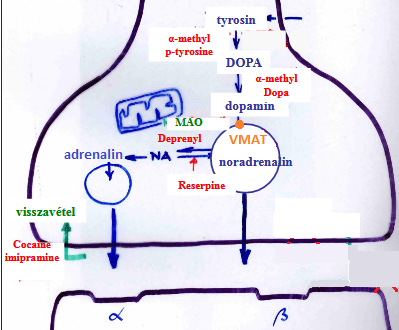
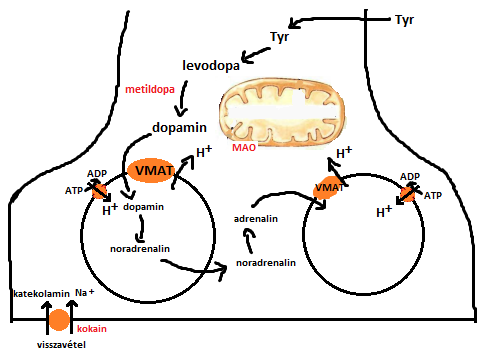
make some changes

diff --git a/BioKemia/III/biokemia_III.html b/BioKemia/III/biokemia_III.html
@@ -1000,21 +1000,19 @@
 		<li>2) aromás aminosav dekarboxiláz <font style="font-size:80%">(nem specifikus &#10140; más aromás aminosavakat is dekarboxilál)</font></li><ul>
 			<li>	Parkinson-kór esetében dopaminhiány van a KIR-ben &#10140; 	ezért ilyenkor...</li>
 			<li>	egyrészt beadnak Levodopa=L-dopa-t &#10140; ez átjut vér-agy gáton &#10140; nő a dopamin agyban, de nőne perifériásan is</li>
-			<li>másrészt beadnak aromás-aminosav-dekarboxiláz gátlót is &#10140; ez már NEM jut át vér-agy gáton (dopamin se) &#10140; perifériásan mégse fog nőni a dopamin</li>
+			<li>másrészt beadnak aromás-aminosav-dekarboxiláz gátlót is, pl. metildopa &#10140; ez már NEM jut át vér-agy gáton (dopamin se) &#10140; perifériásan mégse fog nőni a dopamin</li>
 			forrás: TK + ea + farmakológia alapjai
 		</ul>
 		<li>vezikulába felvételre kerül</li><ul>
 			<li>VMAT (vezikuláris monoamin-transzporter) végzi &#10140; proton-antiporter</li>
 			<li>proton-pumpa biztosítja a VMAT működését</li>
 		</ul>
-		<li>3) &beta;-hidroxiláz</li><ul>
+		<li>3) &beta;-hidroxiláz &#10140; <span class="IMPORTANT">noradrenerg neuronokban van</span> (dopaminerg-neuronokban már nincs)</li><ul>
 			<li>vezikulában van! (többi enzim a citoszolban!)</li>
 			<li>C-vitamin kell hozzá</li>
-			<li>dopaminerg-neuronokban nincs, noradrenedrg neuronokban van</li>
 		</ul>
-		<li>4) N-metil-transzferáz</li><ul>
-			<li>mellékvesevelőben van</li>
-			<li>noradrenalinre 1metil-csoport áttevődik S-adenozil-metioninről</li>
+		<li>4) N-metil-transzferáz &#10140; <span class="IMPORTANT">mellékvesevelő kromaffin sejtjeiben van</span></li><ul>
+			<li>noradrenalinre 1metil-csoport tesz át S-adenozil-metioninről</li>
 			<li>lokalizáció &#10140; a noradrenalin kijut citoplazmába, itt adrenalin lesz belőle, majd visszajut vezikulába(exocitózishoz) &#10140; azonban ez a vérbe jut majd (hisz hormon!)</li>
 		</ul>
 		<span class="WHITE">TEHÁT</span> dopaminerg-neuronokban a 2.lépés az utolsó. Noradrenalin szintézisnél a 3. Mellékvesevelőben a 4.
@@ -1025,6 +1023,7 @@
 		<li>Ca<sup>2+</sup> fokozza a &beta;-hidroxiláz aktivitását (fokozott szimpatikus aktivitás alatt pedig nő a Ca<sup>2+</sup>)</li>
 		<li>kortizol fokozza mellékvesevelőben N-metil-transzferáz génexpresszióját, így adrenalin-szintézist</li>
 		<li>&alpha;2-R jelátvitele gátolja a szintézist</li>
+	  <hr><font style="font-size:80%">előadás-ábra(gátlószerek)</font> <img class="mini" data-src="gtlszrjnrdn.png">
 	</ul></details>
 	<details class="{506} open"><summary>gliceroneogenezis</summary><ul class="normal">
 		<details class="kerdes 3/2"><summary>glicerin-3-foszfát keletkezésének módjai</summary><ul class="normal">
@@ -1947,7 +1946,7 @@
 			<li>gátlásuk hatására ACh tovább marad a szinaptikus résben, így a psy aktivitás fokozódik &#10140; pl.nyáltermelés+könnytermelés fokozódik</li>
 			<li>gátlók két csoportja</li><ul>
 				<li>irreverzibilis gátlók &#10140; foszforilálják a szerint (szerin-proteáz!) &#10140; pl. rovarirtóként használt alkilfoszfátok</li>
-				<li>reverzibilis gátlók &#10140; enzimhez kötődve gátolják működését &#10140; pl. myasthenia gravis tüneteinek enyhítésére használják</li>
+				<li>reverzibilis gátlók (pl. neosztigmin) &#10140; enzimhez kötődve gátolják működését &#10140; pl. myasthenia gravis tüneteinek enyhítésére használják</li>
 			</ul>
 			myasthenia gravis &#10140; autoimmun betegség: antitest termelődik a hcs.izom nikotinerg-receptora ellen
 		  <hr><font style="font-size:80%">források &#10140; TK(ÁV:BK) + <abbr title="google search (farmakológia tk-ban van)">Indirekt ható kolinomimetikumok: kolin-észteráz-bénítók</abbr></font>
@@ -1960,23 +1959,23 @@
 		<div class="imp [505]"></div>
 	</ul></details>
 	<details class="kerdes 3/5"><summary class="status"><strong>33. Az adrenalin, noradrenalin lebomlása, enzimek, gátlószerek</strong></summary><ul class="normal">
-		<li>nem a végkészülékből felszabadult transzmitterek inaktiválásában játszik szerepet, hanem a neuronban a vezikulákból citoplazmába kikerült transzmittereket érinti</li>
+		<li>ezek a neuronban a vezikulákból citoplazmába kikerült transzmittereket bontják (tehát nem a végkészülékből felszabadultakat)</li>
 		<li>ezt 2 enzim végzi:</li><ul>
-			<li>monoaminooxidáz(MAO)</li>
-			<li>katekol-O-metiltranszferáz(COMT) &#10140; mitokondrium külső membránjában van</li>
+			<li>monoaminooxidáz(MAO) &#10140; mitokondrium külső membránjában</li>
+			<li>katekol-O-metiltranszferáz(COMT)</li>
 		</ul>
 	  <hr><strong>monoaminooxidáz</strong>
-		<li>oxidatív dezaminálja a citoplazmába kijutott katekolamint</li>
-		<li>funkció &#10140; megvédi a szervezetet a táplálékkal felvett katekolaminoktól, hidroxilált metabolitok, aszkorbinsav stb</li>
+		<li>oxidatív dezaminálja aromás aminosavakat</li>
+		<li>funkció &#10140; a citoplazmába kikerült katekolaminoktól megvédi a szervezetet (oxidatív dezaminálja őket)</li>
+		<li>gátlásuk &#10140; nő a katekolamin mennyisége, depresszió kezelésében alkalmazzák</li>
 		<li>2 izoenezime van &#10140; MAO-A és MAO-B</li><ul>
 			<li>MAO-A &#10140; agyban + mindenhol &#10140; szelektív gátlója van (nevét nem kell tudni)</li>
 			<li>MAO-B &#10140; olyan régiókban van, ahol szerotonin szintetizálódik</li>
 		</ul>
 		<li>ha MAO-A-t gátoljuk, akkor mindenhol a szervezetben gátlódna, így májban & GI-rendszer a 'védekező hatás megszűnne' &#10140; sok biogén-amin maradna meg, melyek a vér-agy gáton átjutva agyba káros hatást fejtenek ki &#10140; gyógyszerként nem használt már</li>
-		<li>MAO-B gátlásánál nem áll fenn az előbbi mellékhatás &#10140; Parkinson-kór esetében használják</li>
+		<li>MAO-B gátlásánál nem áll fenn az előbbi mellékhatás &#10140; Parkinson-kór esetében használják, hiszen így nő a dopamint</li>
 	  <hr><strong>katekol-O-metiltranszferáz</strong>
-		<li>S-adenozil-metioninról metilcsoportot transzferál a katecholgyűrű 3-OH-csoportjára</li>
-		<li>minden katecholgyűrűn metilál (oldallánctól függetlenül)</li>
+		<li>S-adenozil-metioninról metilcsoportot tesz a katekolgyűrű 3-OH-csoportjára <font style="font-size:80%">(oldallánctól függetlenül bármely katekolgyűrűre)</font> <img class="mini" data-src="ckgjtzhtn.png"> (kép csak azért, hogy értsem)</li>
 	</ul></details>
 	<details open class="kerdes 3/."><summary class="status"><strong><span class="MISS">34</span>. Az adrenerg receptorok felosztása, csoportosításuk jelátvitel szerint, legfontosabb fiziológiás hatásuk</strong></summary><ul class="normal">
 	</ul></details>
